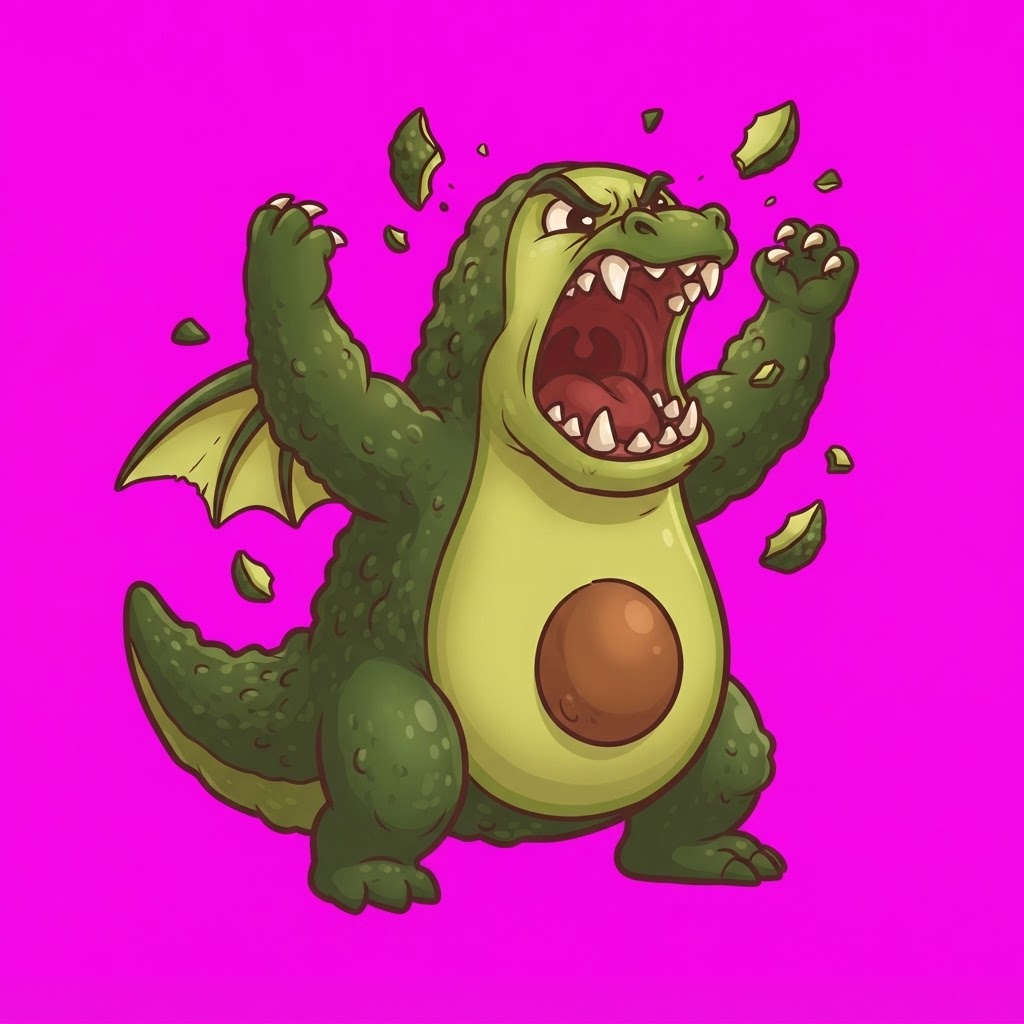
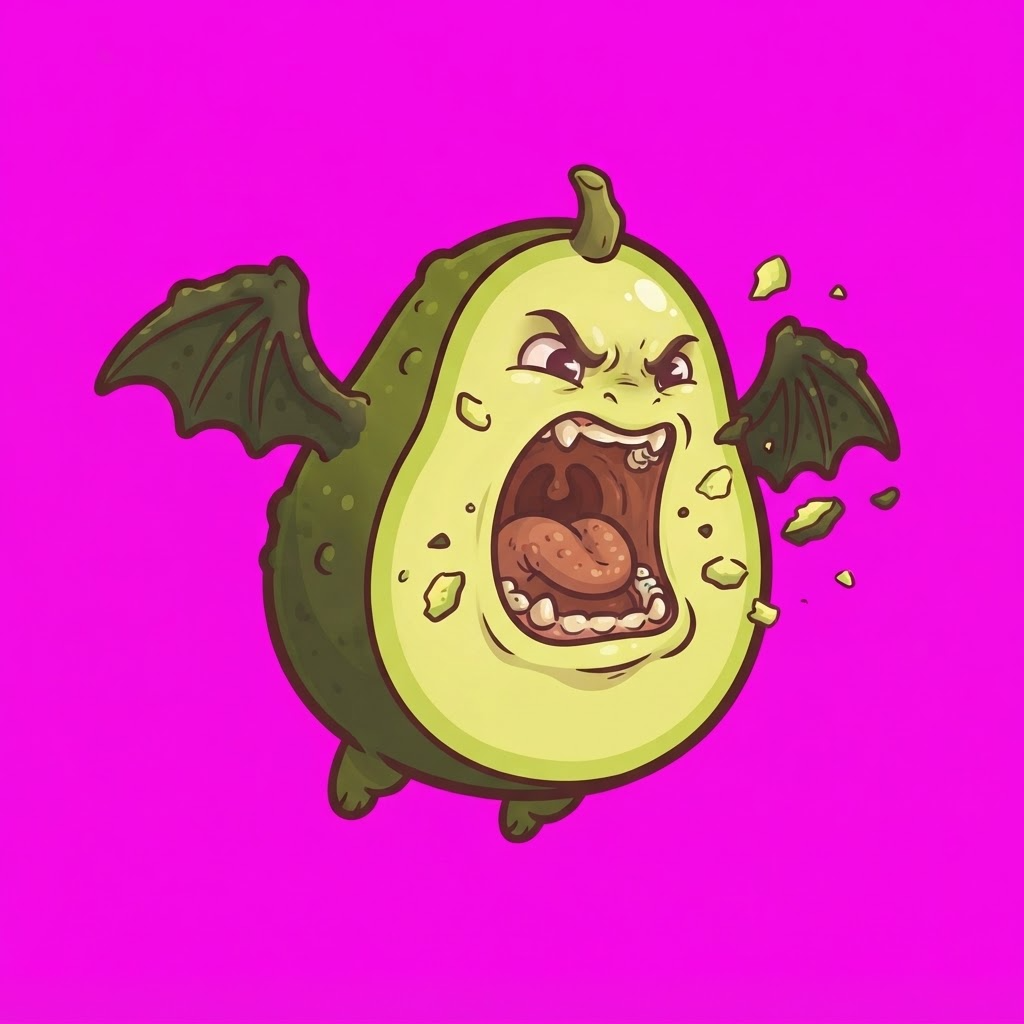
Make every kaiju easy to tell apart
Checked all 16 side by side and at in-game size. Five were upright
lizard shapes and a few shared colours, so (same names and foods):
- Avocadrake: now a round flying avocado half with bat wings
- Salmonster: now an upright navy fish standing on its tail (colour navy)
- Bluebeary: blue-frosted blueberry muffin, so it reads royal blue
- Onigirilla: big black nori wrap, so it reads black and white
- Player colours nudged (Dumplord bun gold, Grapehound deeper purple):
  closest pair of colours 22 -> 30 (CIE Lab); a test keeps it above 28

diff --git a/src/sim/constants.ts b/src/sim/constants.ts
@@ -86,14 +86,14 @@ export const SPECIES = [
   { name: 'BLOBLIN', full: 'Bloblin', food: 'lime jelly', color: 0x8dff6a, css: '#8dff6a' },
   { name: 'MOTHBALL', full: 'Mothball', food: 'marshmallow moth', color: 0xb98cff, css: '#b98cff' },
   { name: 'TOASTBAT', full: 'Toastbat', food: 'toast bat', color: 0xff9a3c, css: '#ff9a3c' },
-  { name: 'DUMPLORD', full: 'Dumplord', food: 'dumpling lord', color: 0xf3e3c3, css: '#f3e3c3' },
+  { name: 'DUMPLORD', full: 'Dumplord', food: 'dumpling lord', color: 0xf0cf8e, css: '#f0cf8e' },
   { name: 'NORIGON', full: 'Norigon', food: 'sushi dragon', color: 0x21c7a8, css: '#21c7a8' },
   { name: 'CHOCOMUNCH', full: 'Chocomunch', food: 'chocolate golem', color: 0xa0652e, css: '#c8834a' },
   { name: 'BUBBLEGUMBO', full: 'Bubblegumbo', food: 'bubblegum elephant', color: 0xff7ad9, css: '#ff7ad9' },
   { name: 'BLUEBEARY', full: 'Bluebeary', food: 'blueberry muffin bear', color: 0x4a6cff, css: '#7a93ff' },
   { name: 'PIZZARAPTOR', full: 'Pizzaraptor', food: 'pizza raptor', color: 0xe03a2a, css: '#ff6a4a' },
-  { name: 'GRAPEHOUND', full: 'Grapehound', food: 'grape hound', color: 0x8a4fd6, css: '#a875ec' },
+  { name: 'GRAPEHOUND', full: 'Grapehound', food: 'grape hound', color: 0x6a2aa8, css: '#a066e0' },
   { name: 'AVOCADRAKE', full: 'Avocadrake', food: 'avocado dragon', color: 0x9bb33a, css: '#b6cf52' },
-  { name: 'SALMONSTER', full: 'Salmonster', food: 'salmon sea monster', color: 0xff8a6a, css: '#ff9d82' },
+  { name: 'SALMONSTER', full: 'Salmonster', food: 'salmon fish monster', color: 0x2f5f9f, css: '#6f9fdf' },
   { name: 'ONIGIRILLA', full: 'Onigirilla', food: 'rice-ball gorilla', color: 0xdfe6ee, css: '#eef3f8' },
 ];

diff --git a/tests/world.test.ts b/tests/world.test.ts
@@ -441,3 +441,19 @@ describe('bots', () => {
     });
   }
 });
+
+describe('kaiju look distinct', () => {
+  it('no two kaiju player colours are too close to tell apart', async () => {
+    const { SPECIES } = await import('../src/sim/constants');
+    const lab = (hex: number) => {
+      const c = [(hex >> 16) & 255, (hex >> 8) & 255, hex & 255].map(v => { v /= 255; return v > 0.04045 ? ((v + 0.055) / 1.055) ** 2.4 : v / 12.92; });
+      const X = (c[0] * 0.4124 + c[1] * 0.3576 + c[2] * 0.1805) / 0.95047, Y = c[0] * 0.2126 + c[1] * 0.7152 + c[2] * 0.0722, Z = (c[0] * 0.0193 + c[1] * 0.1192 + c[2] * 0.9505) / 1.08883;
+      const f = (t: number) => (t > 0.008856 ? Math.cbrt(t) : 7.787 * t + 16 / 116);
+      return [116 * f(Y) - 16, 500 * (f(X) - f(Y)), 200 * (f(Y) - f(Z))];
+    };
+    for (let i = 0; i < SPECIES.length; i++) for (let j = i + 1; j < SPECIES.length; j++) {
+      const a = lab(SPECIES[i].color), b = lab(SPECIES[j].color);
+      expect(Math.hypot(a[0] - b[0], a[1] - b[1], a[2] - b[2]), `${SPECIES[i].name} vs ${SPECIES[j].name}`).toBeGreaterThan(28);
+    }
+  });
+});
